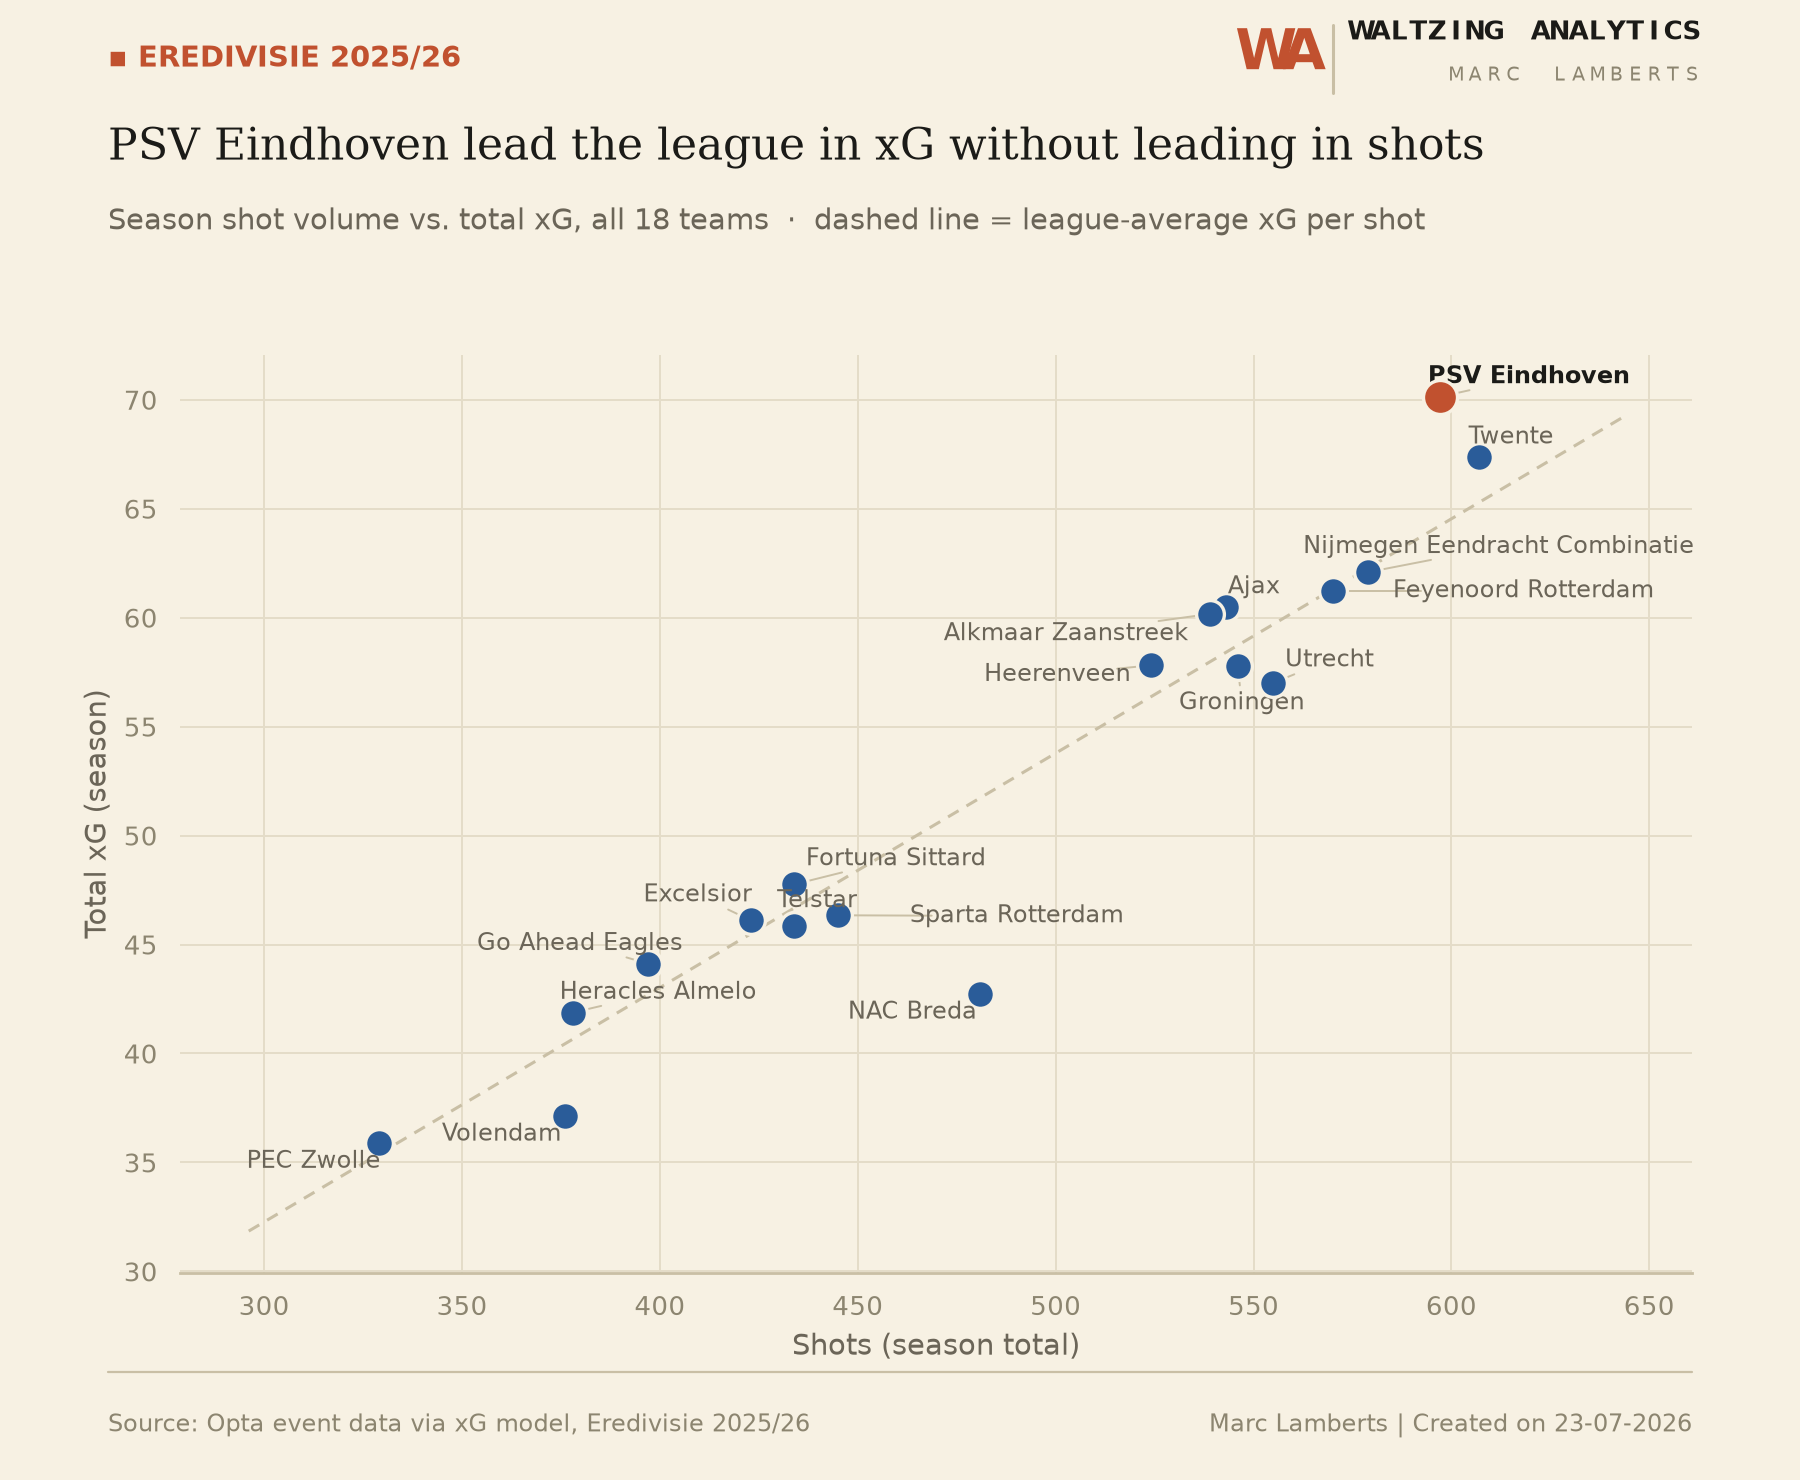
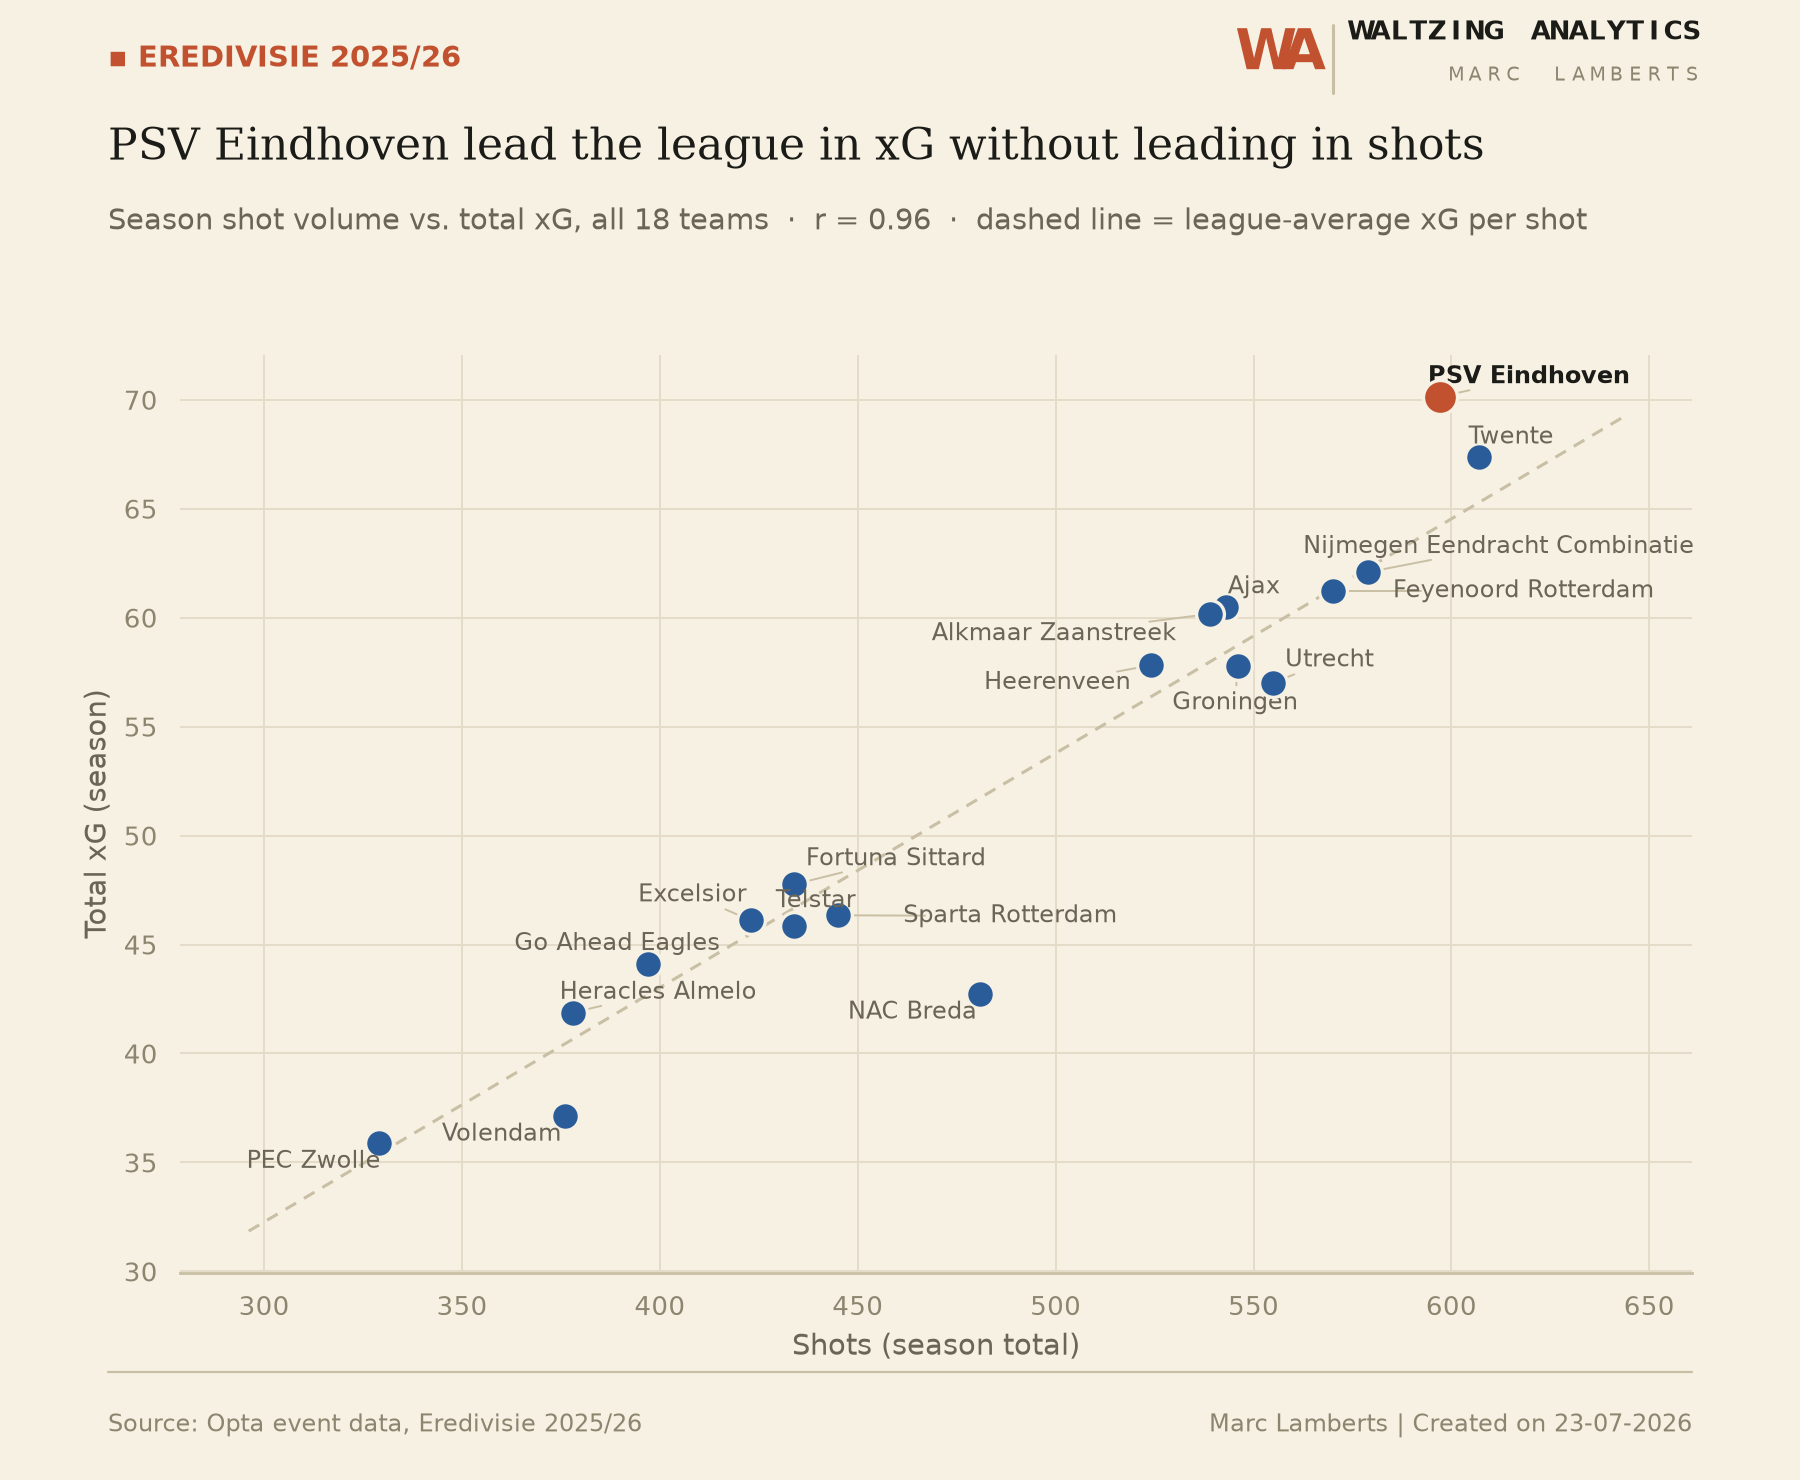
Add correlation stat to shots-vs-xG scatter, add xG-per-shot version
Pearson r (0.96) is now shown on the totals chart to flag that shots
and total xG are nearly collinear at team level. Adds a companion
scatter (shots vs. xG per shot, r=0.19) that isolates shot quality
from shot volume instead.

diff --git a/Danger/shots_vs_xg_per_shot_scatter.py b/Danger/shots_vs_xg_per_shot_scatter.py
@@ -1,14 +1,14 @@
 """
-Team scatter: season shot volume vs. total xG, Eredivisie 2025/26.
-Reads the league-wide scored shots (Danger/all_eredivisie_danger_models.csv,
-one row per shot with contestant_id and xg) and maps contestant_id -> team
-name from the raw Events/*.json fixtures. One point per team; the diagonal
-reads as shot quality (xG per shot) — teams above the trend create better
-chances, not just more of them.
+Team scatter: season shot volume vs. xG per shot, Eredivisie 2025/26.
+Companion to shots_volume_vs_xg_scatter.py — that chart pairs shots against
+*total* xG, which is nearly collinear with volume (r=0.96) since total xG
+is roughly shots x average quality. This version swaps in the rate (xG per
+shot) so the two axes actually measure different things: how often a team
+shoots vs. how good those shots are. Same source data and team mapping.
 
 Built in the Meridian house style (housestyle package).
 
-Usage: python3 Danger/shots_volume_vs_xg_scatter.py [out_dir]
+Usage: python3 Danger/shots_vs_xg_per_shot_scatter.py [out_dir]
 """
 import sys
 import re
@@ -19,7 +19,6 @@ from pathlib import Path
 
 sys.path.insert(0, str(Path(__file__).resolve().parent.parent))
 
-import numpy as np
 import pandas as pd
 import matplotlib.pyplot as plt
 from adjustText import adjust_text
@@ -68,31 +67,30 @@ def main():
 
     g = df.groupby("team").agg(shots=("xg", "size"), xg=("xg", "sum")).reset_index()
     g["xg_per_shot"] = g["xg"] / g["shots"]
-    g = g.sort_values("xg", ascending=False).reset_index(drop=True)
-    r, _ = stats.pearsonr(g["shots"], g["xg"])
+    r, _ = stats.pearsonr(g["shots"], g["xg_per_shot"])
+    g = g.sort_values("xg_per_shot", ascending=False).reset_index(drop=True)
 
     palette, cats = style.apply("light")
     ink_blue = cats[0]
 
     fig = plt.figure(figsize=(9, 7.4))
     fig.patch.set_facecolor(palette["surface"])
-    ax = fig.add_axes([0.10, 0.14, 0.84, 0.62])
+    ax = fig.add_axes([0.11, 0.14, 0.83, 0.62])
 
-    slope = g["xg"].sum() / g["shots"].sum()
-    xs = np.array([g["shots"].min() * 0.9, g["shots"].max() * 1.06])
-    ax.plot(xs, xs * slope, color=palette["axis"], linewidth=1.1,
-            linestyle=(0, (4, 3)), zorder=1)
+    league_avg = g["xg_per_shot"].mean()
+    ax.axhline(league_avg, color=palette["axis"], linewidth=1.1,
+               linestyle=(0, (4, 3)), zorder=1)
 
     top_team = g.iloc[0]["team"]
     texts = []
     for _, row in g.iterrows():
         is_top = row["team"] == top_team
-        ax.scatter(row["shots"], row["xg"],
+        ax.scatter(row["shots"], row["xg_per_shot"],
                    s=150 if is_top else 100,
                    color=palette["accent"] if is_top else ink_blue,
                    edgecolors=palette["surface"], linewidths=1.2,
                    zorder=4 if is_top else 3)
-        texts.append(ax.text(row["shots"], row["xg"], clean(row["team"]),
+        texts.append(ax.text(row["shots"], row["xg_per_shot"], clean(row["team"]),
                               ha="center", va="center", fontsize=8.7,
                               color=palette["ink_primary"] if is_top else palette["ink_secondary"],
                               fontweight="bold" if is_top else "normal"))
@@ -102,16 +100,16 @@ def main():
                 expand=(1.3, 1.6))
 
     ax.set_xlabel("Shots (season total)", fontsize=10.5, color=palette["ink_secondary"])
-    ax.set_ylabel("Total xG (season)", fontsize=10.5, color=palette["ink_secondary"])
+    ax.set_ylabel("xG per shot (season avg.)", fontsize=10.5, color=palette["ink_secondary"])
     ax.grid(True, axis="both", color=palette["grid"], linewidth=0.7, zorder=0)
     ax.set_axisbelow(True)
 
     components.header(
         fig,
         kicker="Eredivisie 2025/26",
-        title=f"{clean(top_team)} lead the league in xG without leading in shots",
-        dek=f"Season shot volume vs. total xG, all 18 teams  ·  r = {r:.2f}  ·  "
-            f"dashed line = league-average xG per shot",
+        title=f"{clean(top_team)} take the Eredivisie's best shots, not its most",
+        dek=f"Shot volume vs. shot quality (xG per shot), all 18 teams  ·  r = {r:.2f}  ·  "
+            f"dashed line = league average",
         palette=palette,
     )
     components.footer(
@@ -120,7 +118,7 @@ def main():
         palette=palette,
     )
 
-    out_path = out_dir / "shots_volume_vs_xg_eredivisie.png"
+    out_path = out_dir / "shots_vs_xg_per_shot_eredivisie.png"
     fig.savefig(out_path, dpi=200, facecolor=palette["surface"])
     plt.close(fig)
     print("Saved:", out_path)
